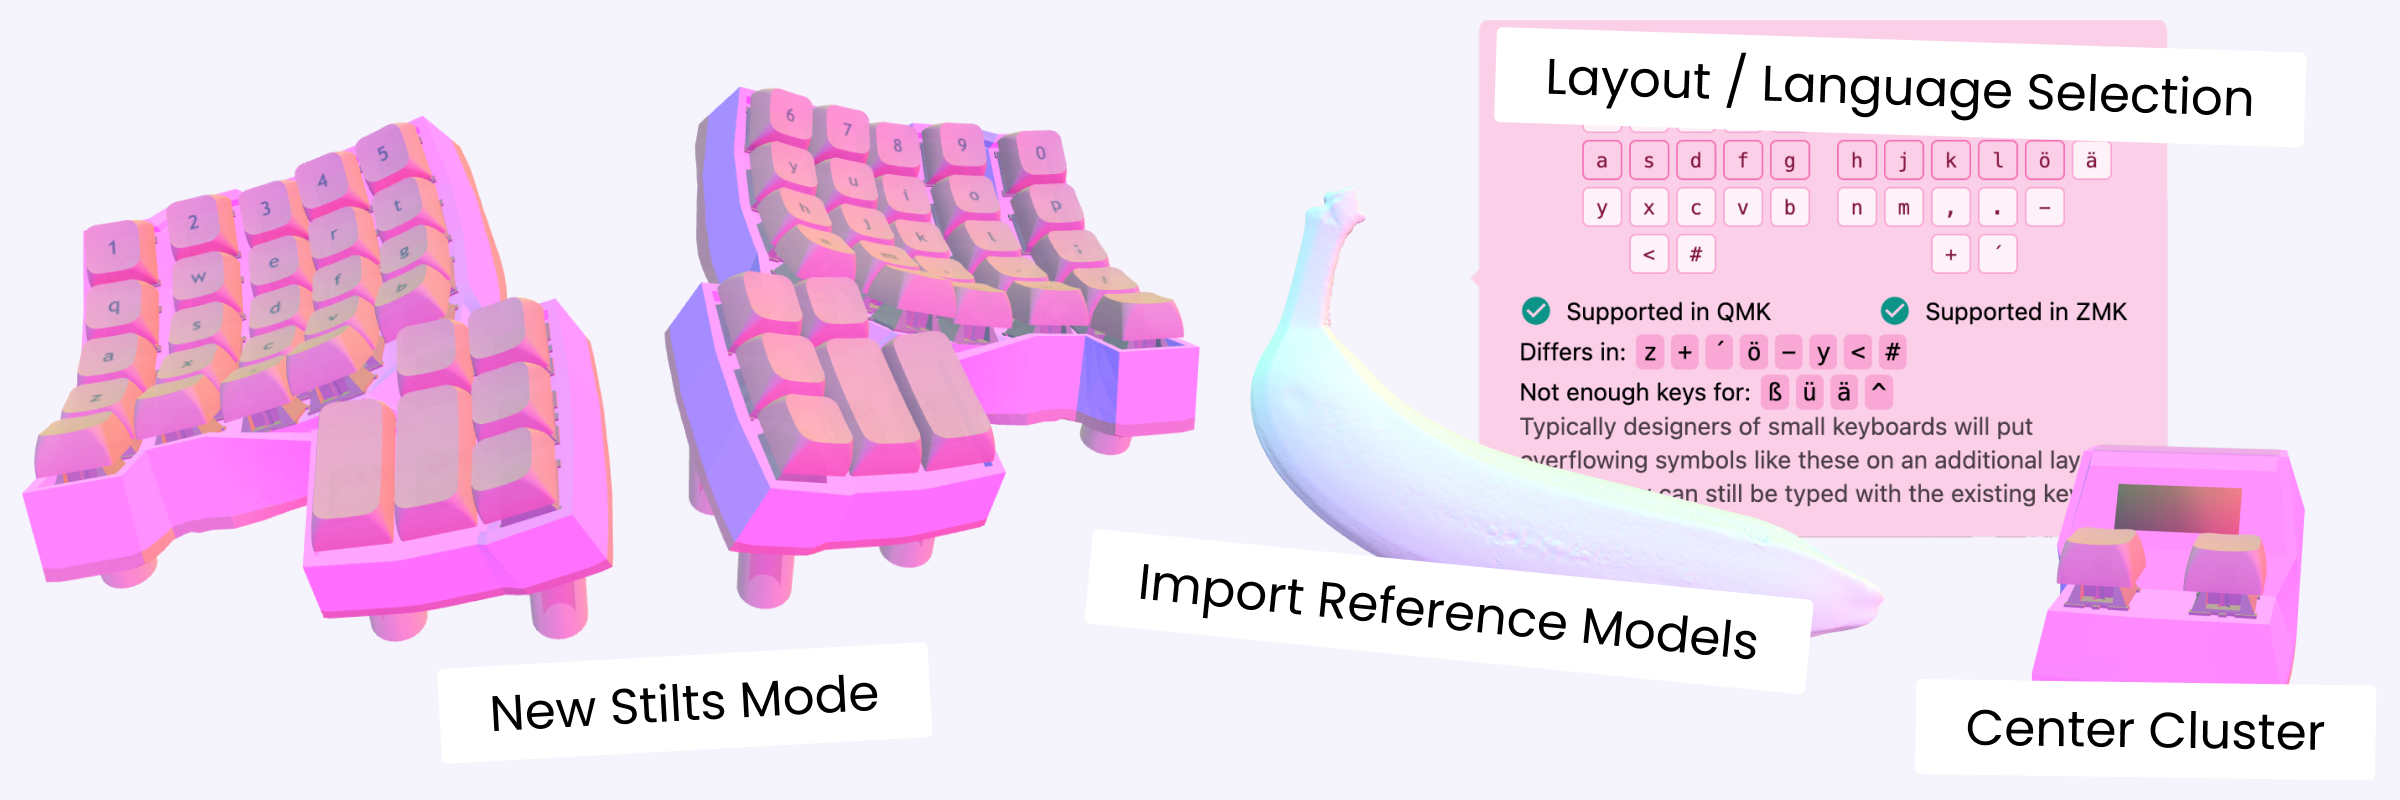
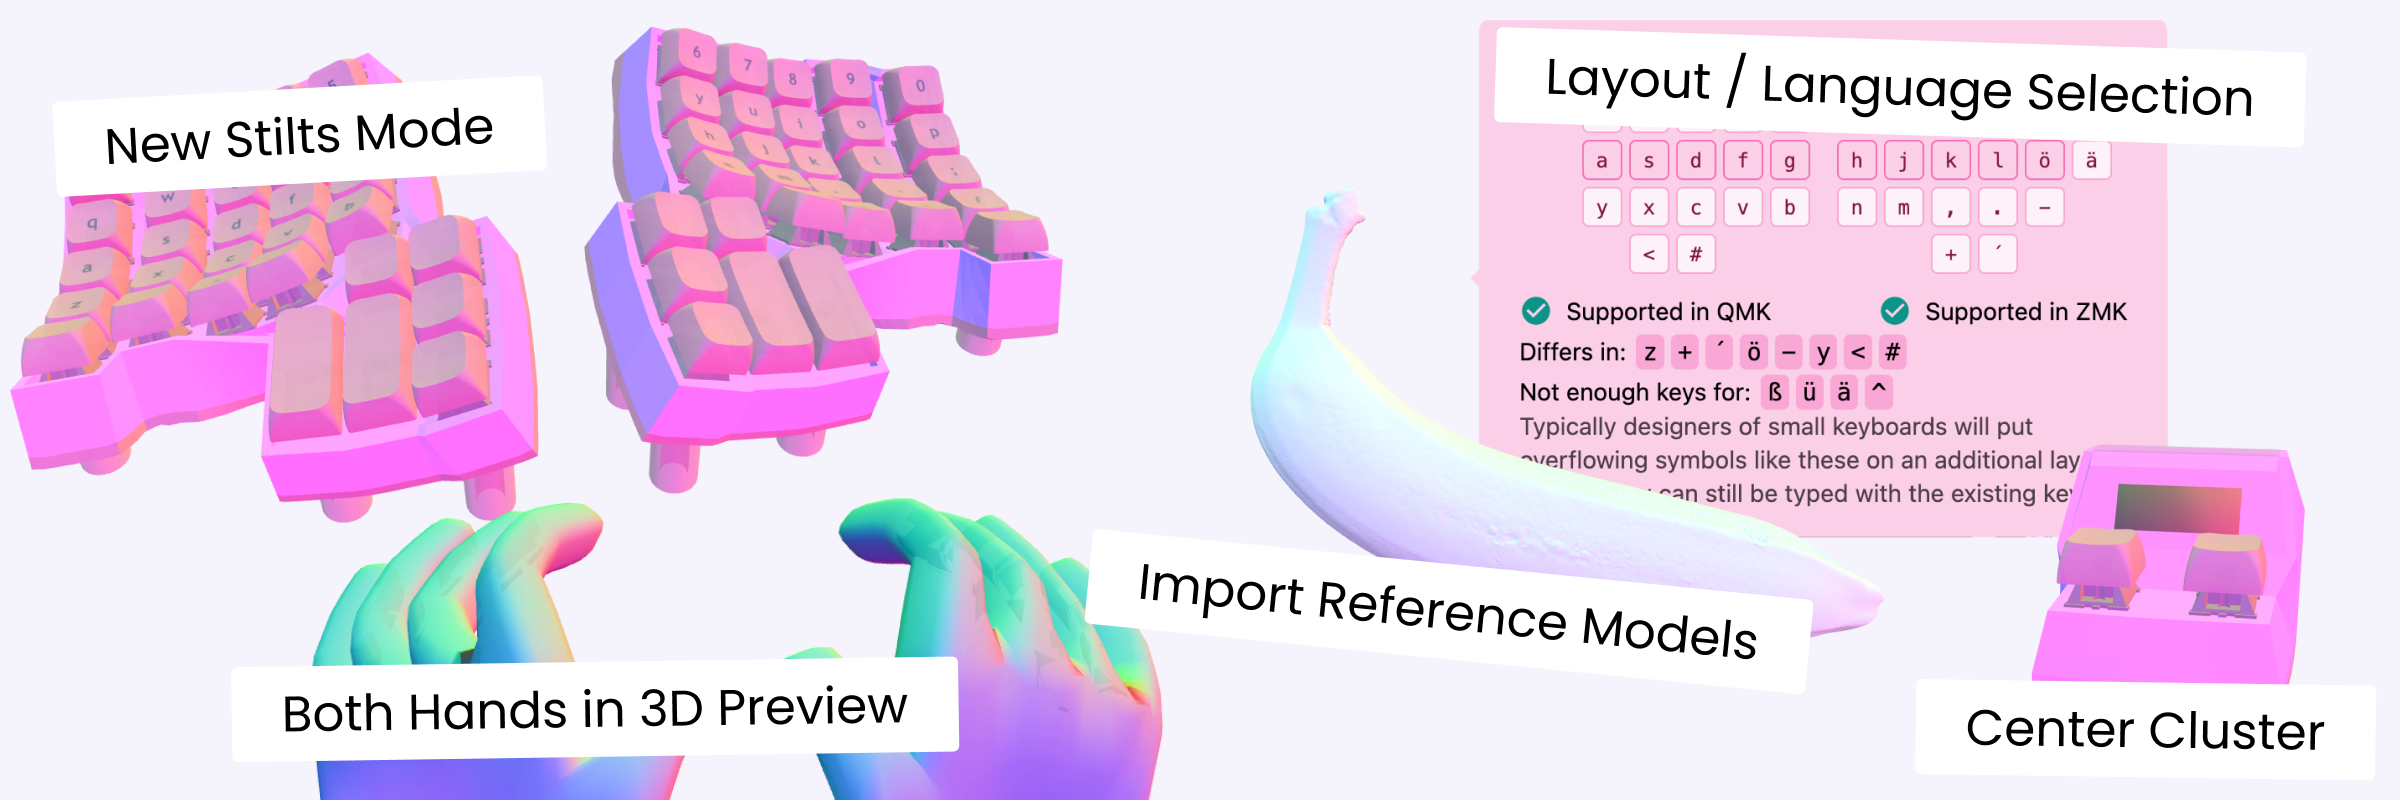
Updates for summer blog post

Changed region(s): [[0.0, 0.0312, 0.5, 1.0]]

diff --git a/docs/blog/posts/summer-software-release.md b/docs/blog/posts/summer-software-release.md
@@ -59,6 +59,12 @@ You can now drag your old models into the keyboard preview area to compare them 
 
 You can even drag in a banana for scale.
 
+## Double the Hands, Double the Fun
+
+![Keyboard with two hand renders](../../assets/twohand.png)
+
+The left hand preview is finally bug-free! Now that both hands work, I've updated the 3D Viewer to show a preview of both your hands next to your keyboard, so that you have a good idea of how the keyboard will fit your hands. :raised_hands:
+
 ## All-New Stilts Mode <span class="pro"></span>
 
 ![A keyboard made with the new stilts mode](../../assets/stilts-mode-new.png)